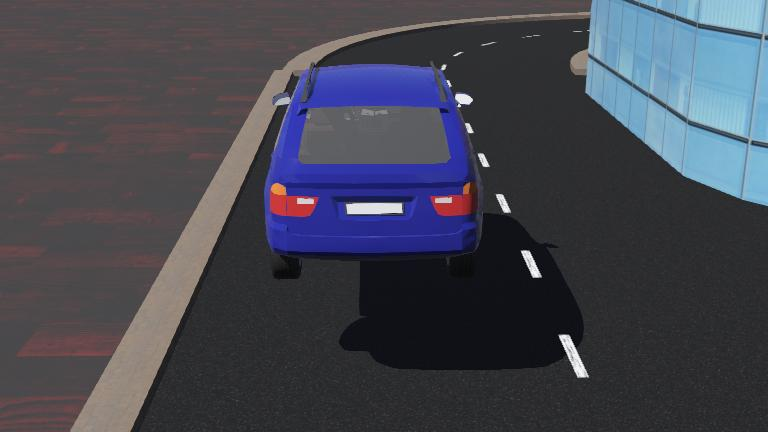
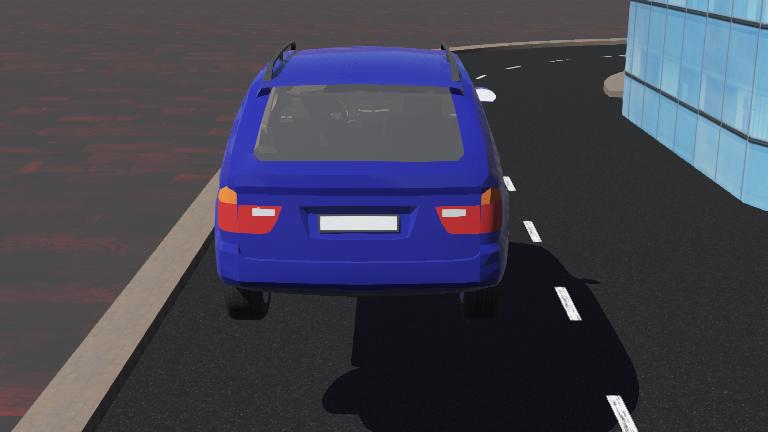
Initializing the left camera
I've added my second camera to look for the left side of the lane. I hope to use this in order to balance the car's location

diff --git a/controllers/Hondaodyssey/Hondaodyssey.py b/controllers/Hondaodyssey/Hondaodyssey.py
@@ -32,6 +32,7 @@ if lidar is not None:
 else:
     print("Twin your lidar is NOT there")
 
+#Camera 
 camera = driver.getDevice("camera")
 if camera is not None:
     camera.enable(TIME_STEP)
@@ -39,6 +40,8 @@ else:
     print("Your camera is NOT plugged in Twin")
 
 
+
+#Goal: Implementing the a second camera into autopilot by possibly adding a WAYPOINT
 
 
 #to start in manual mode:
@@ -92,7 +95,7 @@ while driver.step() != -1:
 
     else:
         #the AUTOPILOT area
-        current_speed = 10.0 # Constant cruising speed
+        current_speed = 10.0
             
         if camera is not None:
             image = camera.getImageArray()
@@ -135,7 +138,7 @@ while driver.step() != -1:
                 #P=Kp * E(t)
                 p_term = error * 2.0
                 i_term = integral * 0.05
-                d_term = (error - last_error) * 20.0
+                d_term = (error - last_error) * 5.0
                 
                 current_steering = p_term + i_term + d_term
                 
@@ -149,14 +152,15 @@ while driver.step() != -1:
             #FIND THE LINEEEEE
                 driver.setBrakeIntensity(0.0)
                 
-                current_steering = last_steering
-                #if abs(last_error) > 0.05:
-                #    current_steering = last_error * 10.0
-                #else:
-                #    current_steering = 0.0
+                if abs(last_error) > 0.05:
+                    current_steering = last_error * 10.0
+                else:
+                    current_steering = last_steering
+                
                 current_steering = max(-0.4, min(0.4, current_steering))
                      # Straighten the wheel so it doesn't swerve
-                current_speed = 15.0 # Keep rolling forward
+                current_speed = 15.0 
+                # Keep rolling forward
                 
             print(f"I see {pixel_count} pixels. Steering: {current_steering} |||| Line Position: {(average_x/width):.2f}")
             
@@ -222,7 +226,7 @@ while driver.step() != -1:
                 current_speed = 4.0
 
 
-current_speed = 10.0 # Constant cruising speed
+current_speed = 10.0 
             
         if camera is not None:
             image = camera.getImageArray()

diff --git a/README.md b/README.md
@@ -11,6 +11,7 @@
 - **The World File:**
 
 ## The Tech I Used:
+
 * **Language:** Python
 * **Simulator:** Webots
 * **Sensors:** 
@@ -24,3 +25,10 @@
 * `LEFT Arrow`: Steer Left (Manual Mode)
 * `RIGHT Arrow`: Steer Right (Manual Mode)
 * `A`: Toggle Autopilot (ON/OFF)
+
+## Checklist:
+
+- [ ] Researching the GPS node
+- [ ] Implementing the node into the BMW
+- [ ] More advanced security tech
+- [ ] Asset testing (along side different cars)
